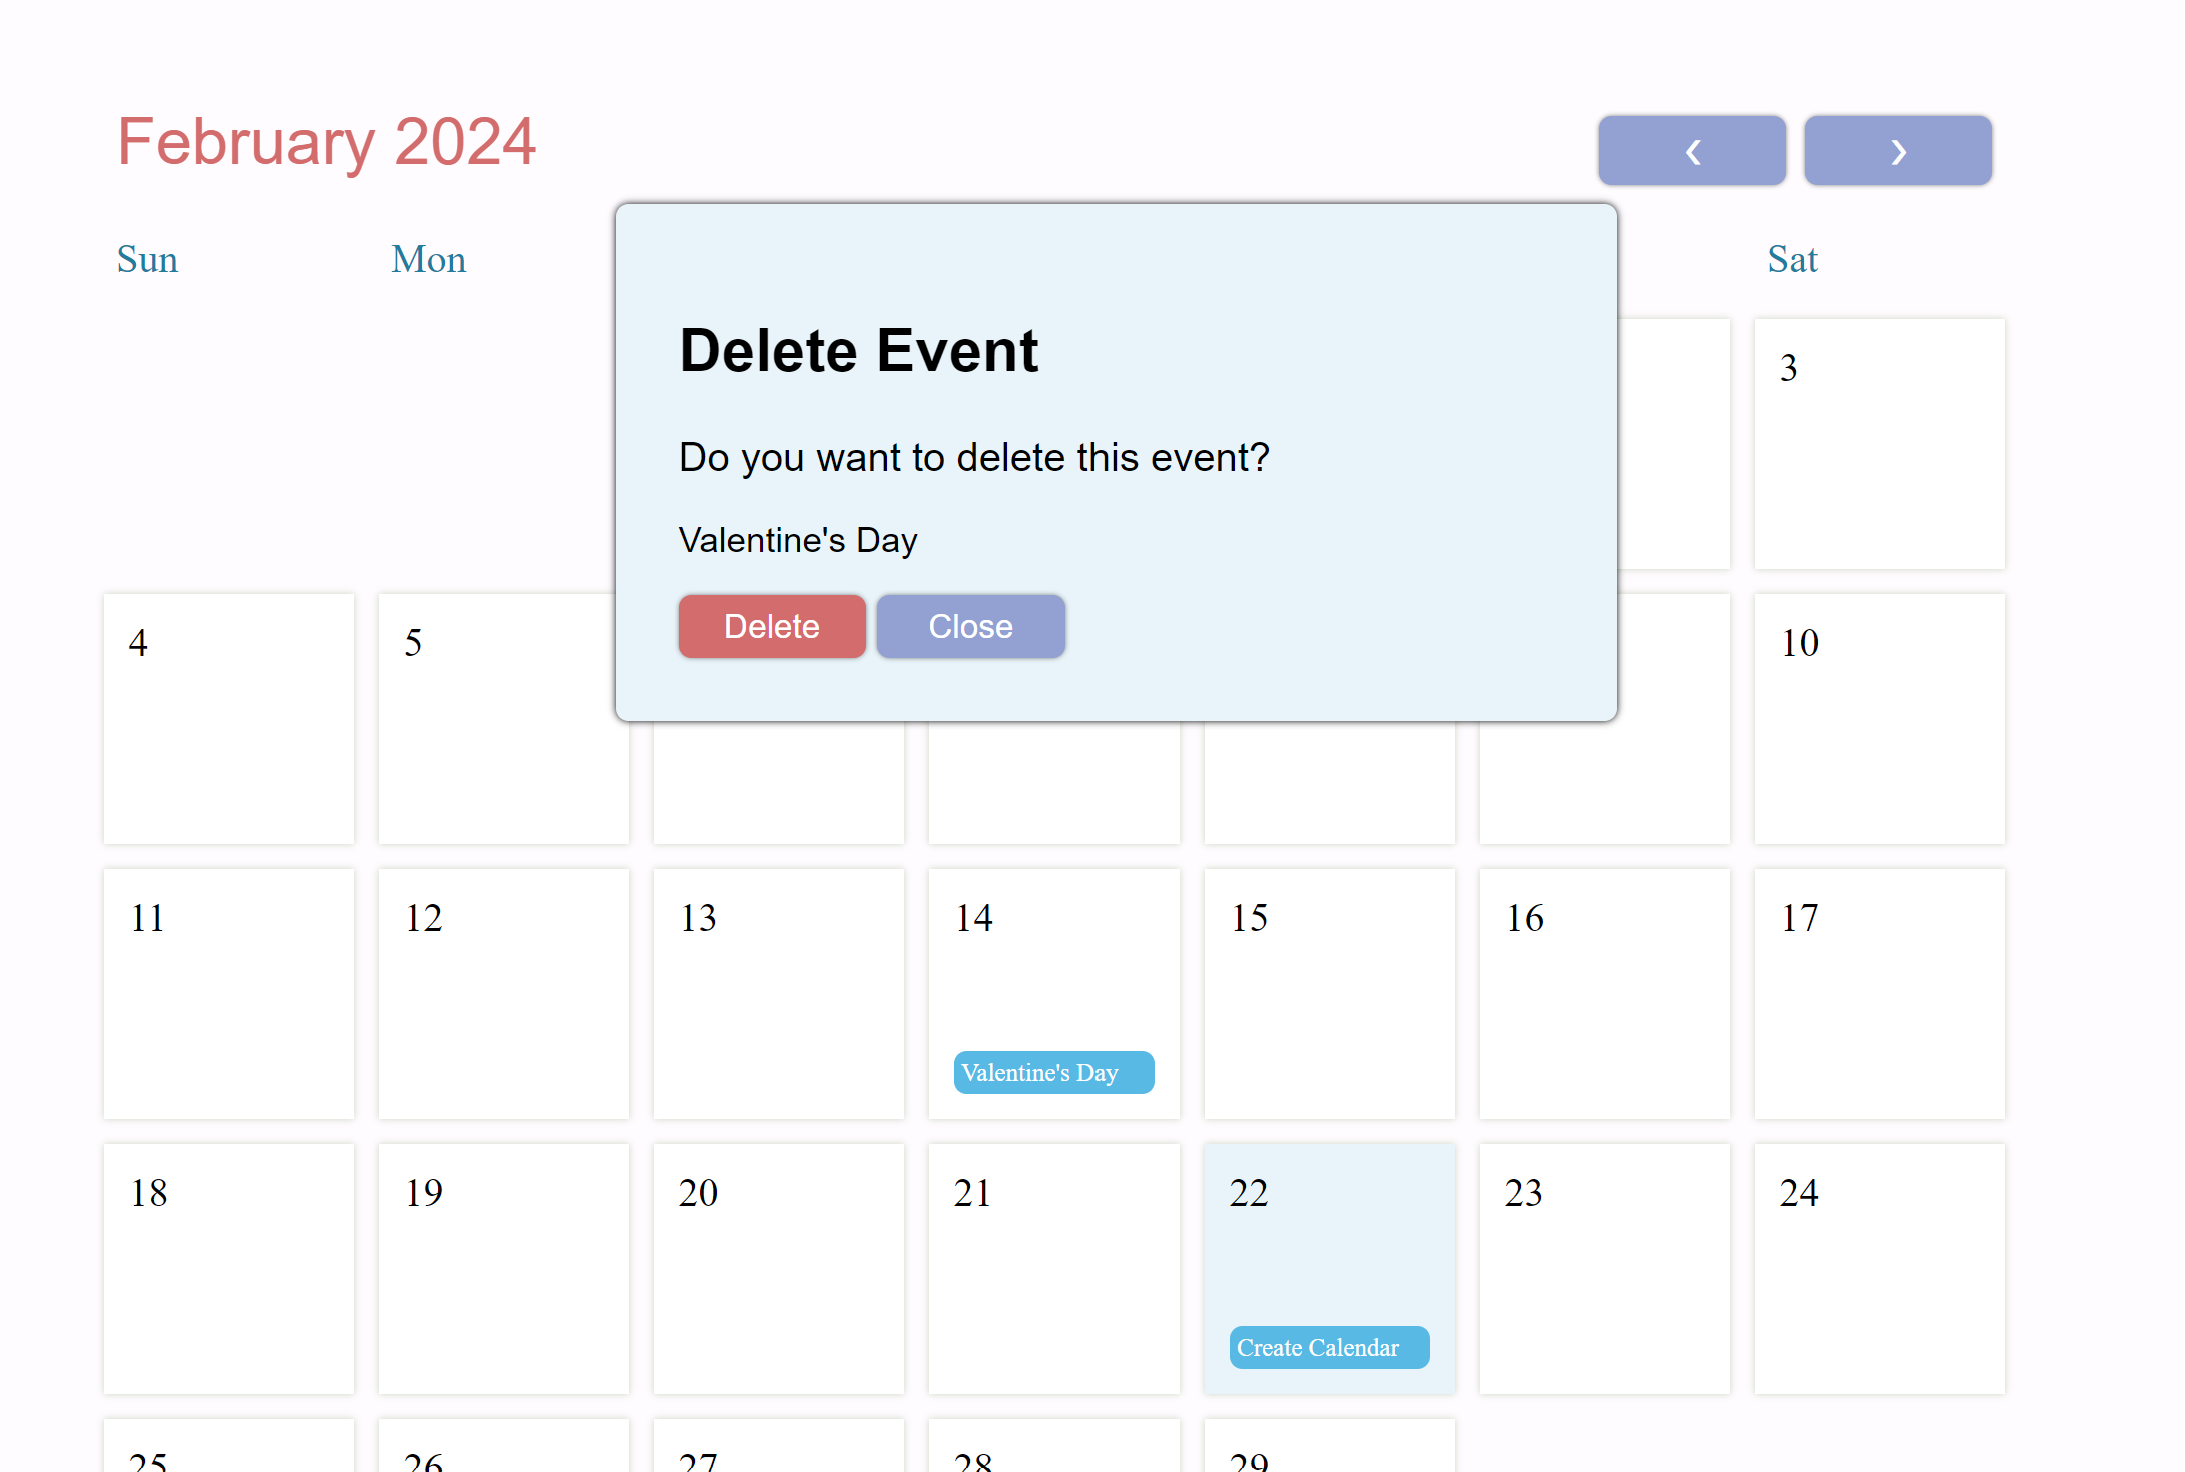
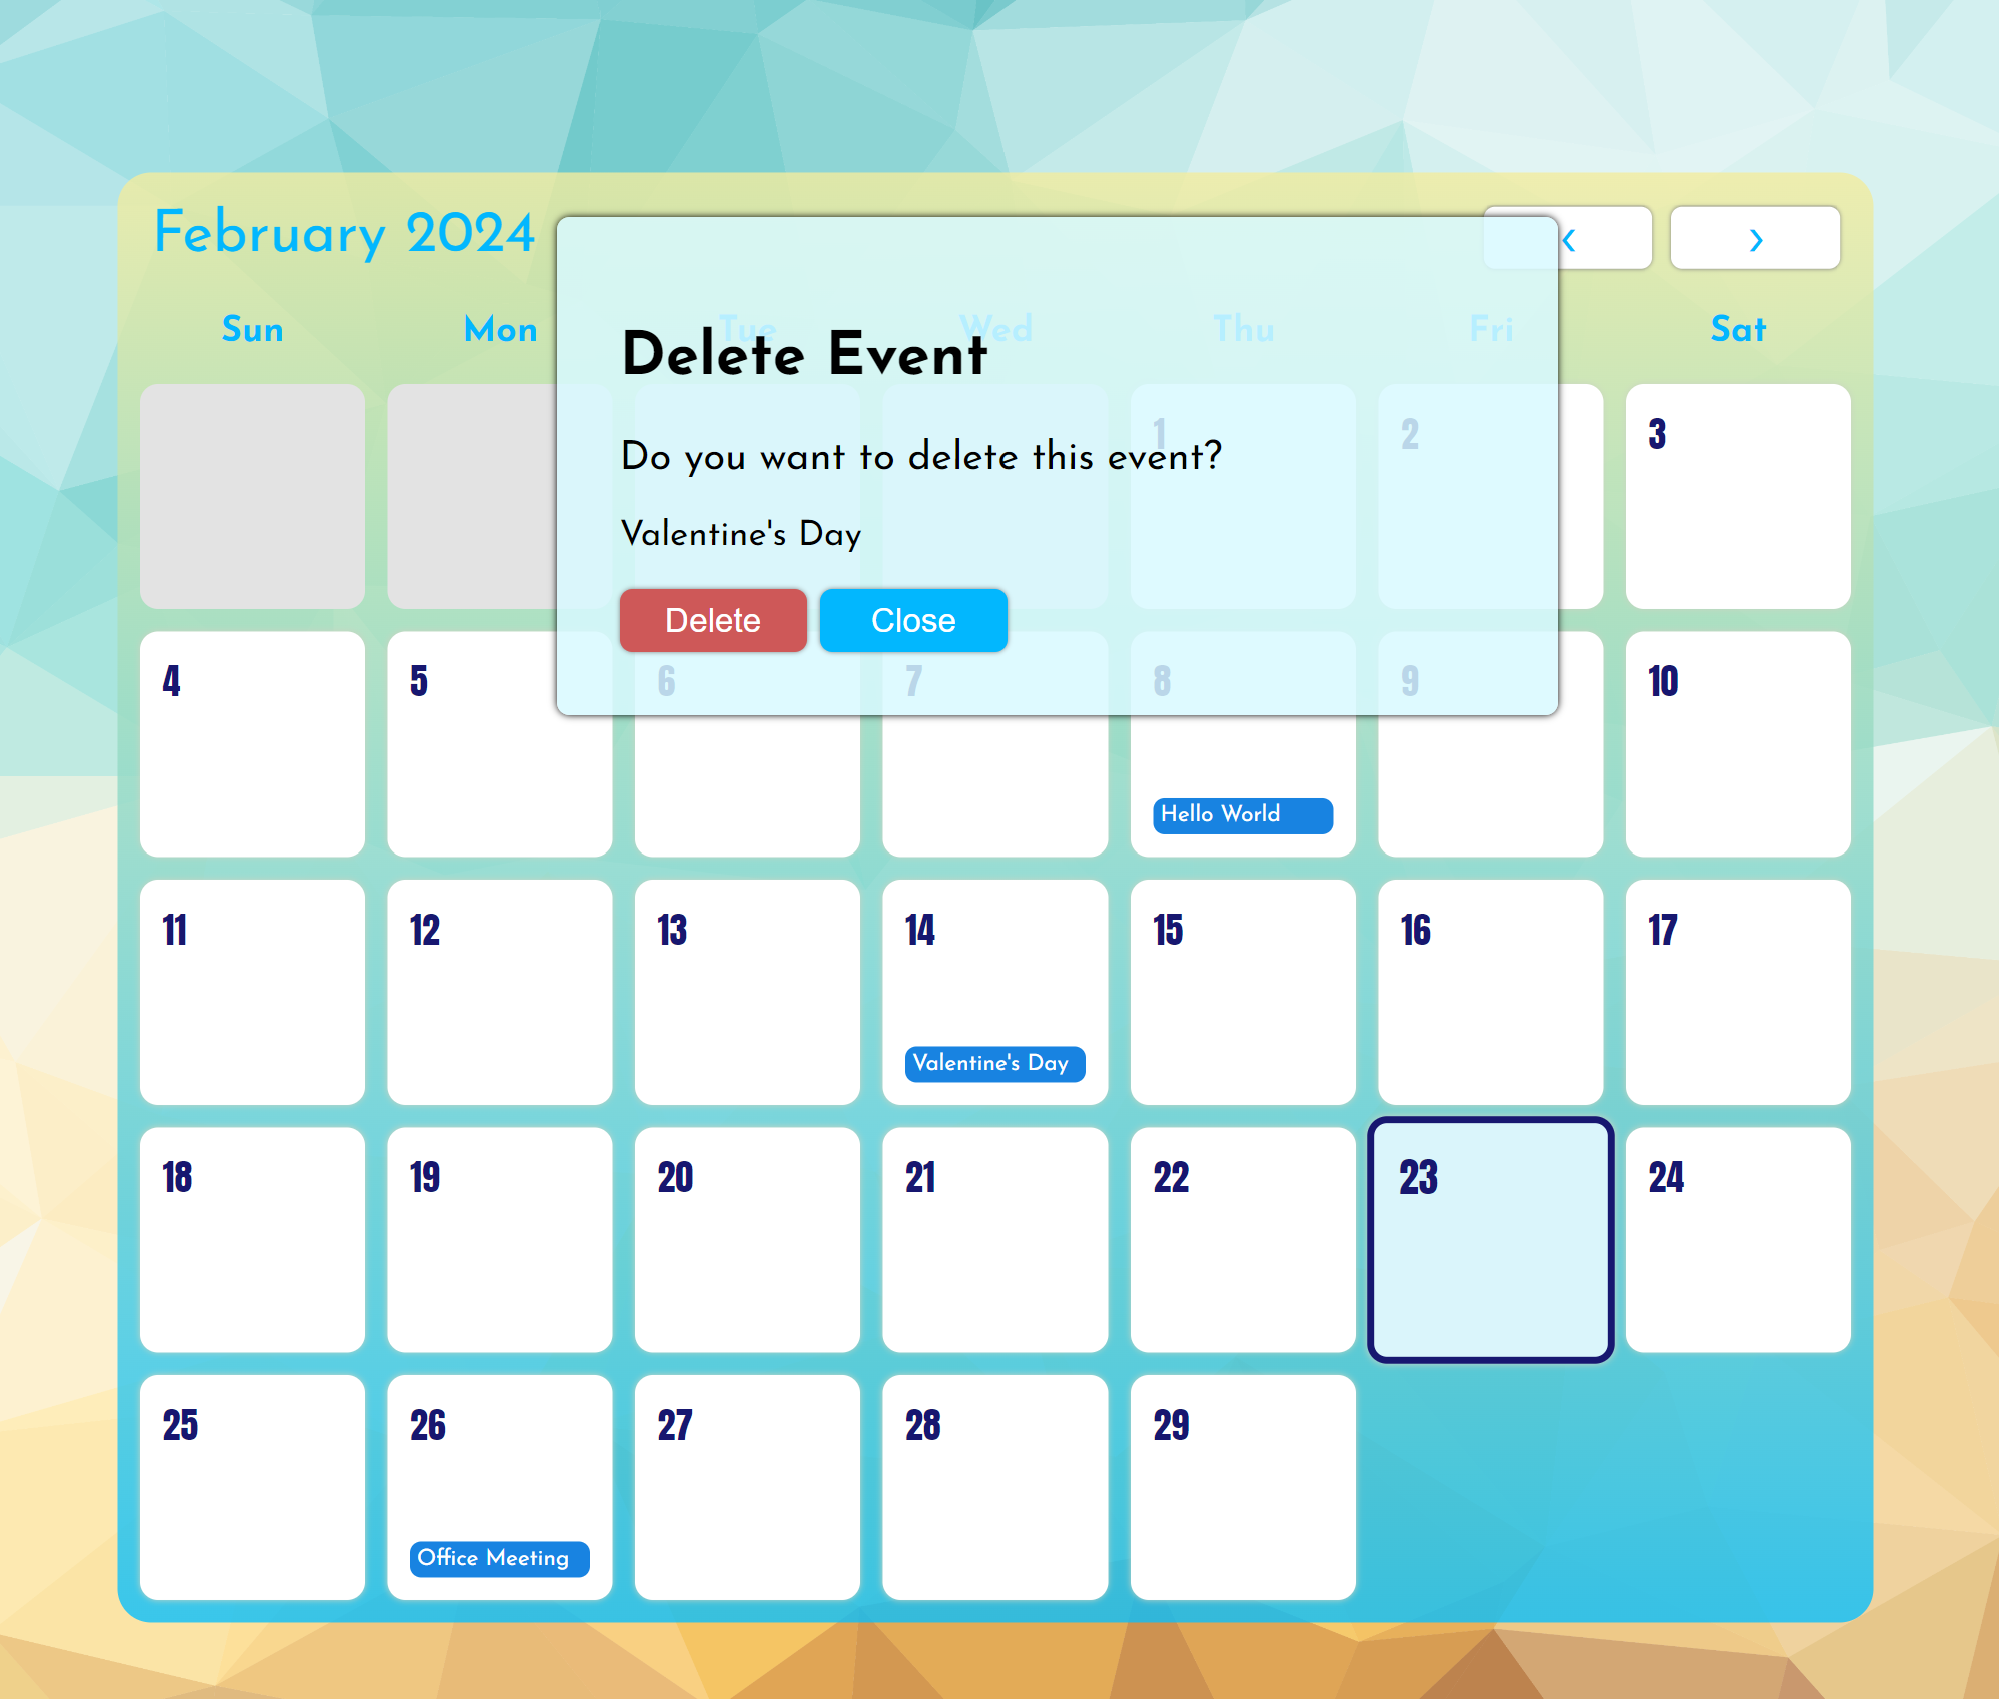
updated beach style motif and added google fonts

diff --git a/style.css b/style.css
@@ -2,6 +2,10 @@ body {
   display: flex;
   margin-top: 50px;
   justify-content: center;
+  background-image: url(./assets/images/beach-abstract.png);
+  background-position: center;
+  background-size: cover;
+  font-family: josefin sans;
 }
 button {
   width: 75px;
@@ -16,27 +20,30 @@ button {
 
 #header {
   padding: 10px;
-  color: #d36c6c;
+  color: #02b7fe;
+  font-family: josefin sans;
   font-size: 26px;
-  font-family: sans-serif;
   display: flex;
   justify-content: space-between;
 }
 #header button {
   background-color: #ffffff;
-  color: #d36c6c;
+  color: #02b7fe;
 }
 #container {
   width: 770px;
-  background-color: rgb(145, 207, 246);
+  background: linear-gradient(rgba(243, 236, 158, 0.8), rgba(9, 191, 252, 0.8));
   border-radius: 15px;
   padding: 5px;
+  scale: 0.9;
 }
 #weekdays {
   width: 100%;
   display: flex;
-  color: #000000;
+  color: #02b7fe;
+  font-weight: bold;
   text-align: center;
+  font-family: josefin sans;
 }
 #weekdays div {
   width: 100px;
@@ -61,26 +68,31 @@ button {
   flex-direction: column;
   justify-content: space-between;
   border-radius: 8px;
+  font-family: Anton;
+  color: #171770;
 }
 .day:hover {
-  background-color: #fae8e8;
+  background-color: #e3ffe7;
 }
 
 .day + #currentDay {
-  border: 3px solid #d36c6c;
+  border: 3px solid #171770;
+  background-color: #daf5fb;
+  scale: 1.1;
 }
 .event {
   font-size: 10px;
   padding: 3px;
-  background-color: #58bae4;
+  background-color: #1883e1;
   color: white;
   border-radius: 5px;
   max-height: 55px;
   overflow: hidden;
+  font-family: josefin sans;
 }
 .padding {
   cursor: default !important;
-  background-color: #fffcff !important;
+  background-color: #e3e3e3 !important;
   box-shadow: none !important;
 }
 #newEventModal,
@@ -88,14 +100,13 @@ button {
   display: none;
   z-index: 20;
   padding: 25px;
-  background-color: #e8f4fa;
+  background-color: #d8f9ffd7;
   box-shadow: 0px 0px 3px black;
   border-radius: 5px;
   width: 350px;
   top: 100px;
   left: calc(50% - 175px);
   position: absolute;
-  font-family: sans-serif;
 }
 #eventTitleInput {
   padding: 10px;
@@ -112,11 +123,11 @@ button {
 }
 #cancelButton,
 #deleteButton {
-  background-color: #d36c6c;
+  background-color: #ce5858;
 }
 #saveButton,
 #closeButton {
-  background-color: #92a1d1;
+  background-color: #02b7fe;
 }
 #eventText {
   font-size: 14px;
@@ -129,5 +140,5 @@ button {
   width: 100vw;
   height: 100vh;
   position: absolute;
-  background-color: rgba(0, 0, 0, 0.8);
+  background-color: rgba(32, 32, 32, 0.8);
 }

diff --git a/index.html b/index.html
@@ -3,6 +3,12 @@
   <head>
     <meta charset="UTF-8" />
     <meta name="viewport" content="width=device-width, initial-scale=1.0" />
+    <link rel="preconnect" href="https://fonts.googleapis.com" />
+    <link rel="preconnect" href="https://fonts.gstatic.com" crossorigin />
+    <link
+      href="https://fonts.googleapis.com/css2?family=Anton&family=Dancing+Script:wght@400..700&family=Josefin+Sans:ital,wght@0,100..700;1,100..700&display=swap"
+      rel="stylesheet"
+    />
     <link rel="stylesheet" href="style.css" />
     <title>myCal</title>
   </head>
